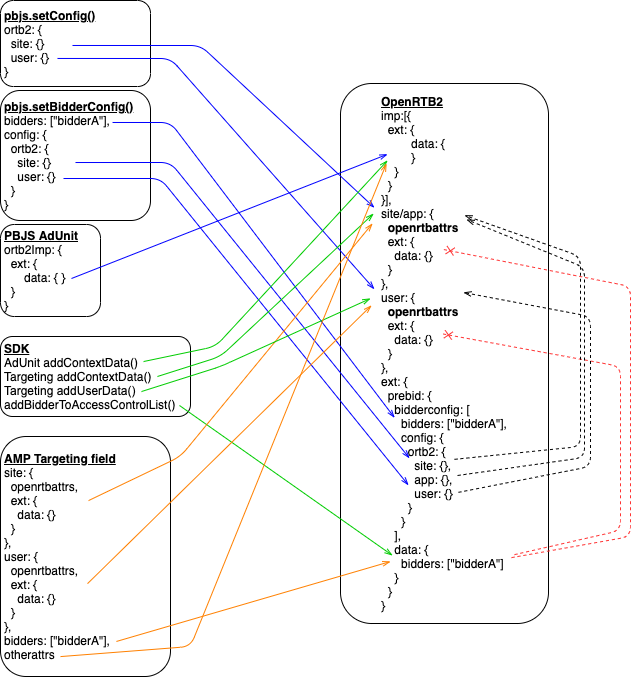
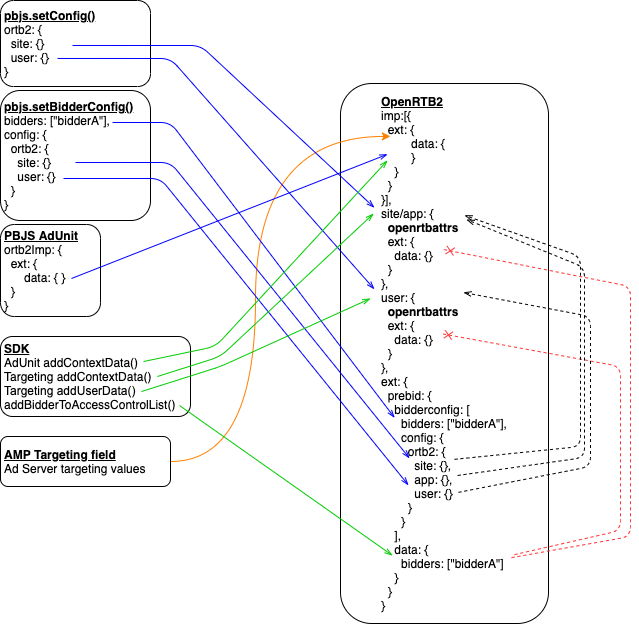
AMP FPD doc updates

diff --git a/prebid-server/features/pbs-fpd.md b/prebid-server/features/pbs-fpd.md
@@ -25,24 +25,25 @@ Each of the three main sources of Prebid Server traffic will place
 First Party Data in the OpenRTB JSON in several places:
 
 {: .table .table-bordered .table-striped }
-| OpenRTB Attribute | Description | PBJS Source | SDK Source | AMP Source |
+| OpenRTB Attribute | Description | Prebid.js Source | SDK Source | AMP Source |
 | --- | --- | --- | --- | --- |
-| site.ATTR | Only standard OpenRTB attributes should be here: name, domain, cat, sectioncat, pagecat, page, ref, search, keywords. | config ortb2.site.ATTR | n/a | site.ATTR |
-| site.ext.data.ATTR | Any other site-related attributes should go here. | config ortb2.site.ext.data | n/a | site.ext.data.ATTR |
+| site.ATTR | Only standard OpenRTB attributes should be here: name, domain, cat, sectioncat, pagecat, page, ref, search, keywords. | config ortb2.site.ATTR | n/a | Stored Request |
+| site.ext.data.ATTR | Any other site-related attributes should go here. | config ortb2.site.ext.data | n/a | Stored Request |
 | app.ext.data.ATTR | Any app-related attributes should go here. | n/a | Targeting addContextData() | n/a |
-| user.ATTR | Only standard OpenRTB attributes should be here: yob, gender, keywords. | config ortb2.user.ATTR | n/a | user.ATTR |
-| user.ext.data.ATTR | Any other user-related attributes should go here. | config ortb2.user.ext.data.ATTR | Targeting addUserData() | user.ext.data.ATTR |
-| imp[].ext.data.ATTR | AdUnit-specific attributes should go here. | AdUnit.ortb2.ext.data | AdUnit addContextData() | n/a |
-| ext.prebid.data.bidders[] | If specified, only these bidders are allowed to see fields in {site/app/user}.ext.data. | n/a | addBidderToAccessControlList() | bidders |
-| ext.prebid.bidderconfig | Bidder-specific config | [setBidderConfig()](/dev-docs/publisher-api-reference.html#module_pbjs.setBidderConfig) | n/a | n/a |
+| user.ATTR | Only standard OpenRTB attributes should be here: yob, gender, keywords. | config ortb2.user.ATTR | n/a | n/a |
+| user.ext.data.ATTR | Any other user-related attributes should go here. | config ortb2.user.ext.data.ATTR | Targeting addUserData() | n/a |
+| imp[].ext.data.ATTR | AdUnit-specific attributes should go here. | AdUnit.ortb2.ext.data | AdUnit addContextData() | AMP targeting attribute or Stored Request |
+| ext.prebid. data.bidders[] | If specified, only these bidders are allowed to see fields in {site/app/user}.ext.data. | n/a | addBidderTo AccessControlList() | Stored Request |
+| ext.prebid. bidderconfig | Bidder-specific config | [setBidderConfig()](/dev-docs/publisher-api-reference.html#module_pbjs.setBidderConfig) | n/a | Stored Request |
 
 This diagram summarizes how first party data flows into the OpenRTB JSON:
 
 ![First Party Data Summary](/assets/images/flowcharts/FirstPartyData-Detailed.png){: .pb-lg-img :}
 
 {: .alert.alert-info :}
-Note that Prebid.js supports the [`setBidderConfig`](/dev-docs/publisher-api-reference.html#module_pbjs.setBidderConfig) method of defining
-bidder-specific first party data, while SDK and AMP only support the `ext.prebid.data.bidders[]` approach.
+Note that Prebid.js directly supports the [`setBidderConfig`](/dev-docs/publisher-api-reference.html#module_pbjs.setBidderConfig) method of defining
+bidder-specific first party data, while SDK only supports the `ext.prebid.data.bidders[]` approach with an in-app call. 
+Both SDK and AMP can have the stored request define bidder FPD permissions.
 
 ## OpenRTB Examples
 

diff --git a/prebid-server/use-cases/pbs-amp.md b/prebid-server/use-cases/pbs-amp.md
@@ -168,8 +168,8 @@ Only a few dynamic parameters on the query string are integrated into the result
 
 #### First Party Data Support
 
-Any targeting data passed in through the [`/openrtb2/amp`](/prebid-server/endpoints/openrtb2/pbs-endpoint-amp.html) endpoint is merged
-into the OpenRTB JSON and permissions, if defined, are applied to each bidder.
+Ad Server targeting data passed in through the [`/openrtb2/amp`](/prebid-server/endpoints/openrtb2/pbs-endpoint-amp.html) endpoint is merged
+into the OpenRTB JSON in imp[].ext.data for each bidder if permissions allow.
 
 #### Auction and Response
 
